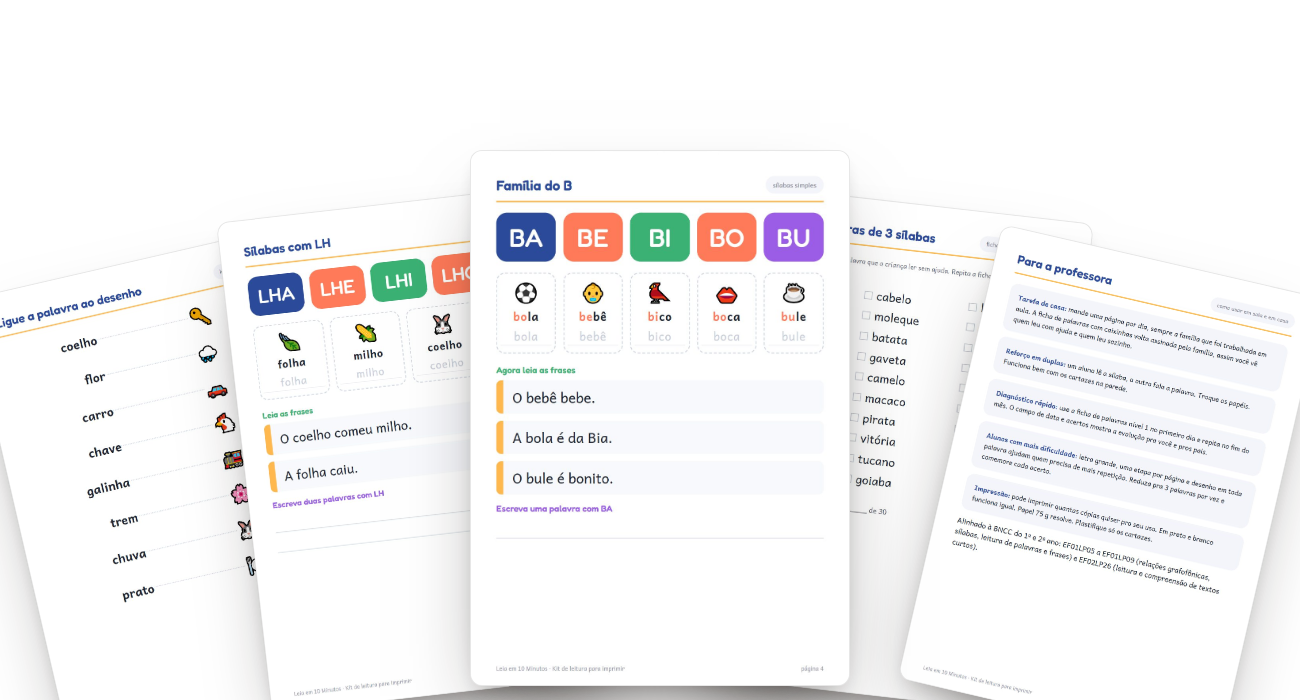
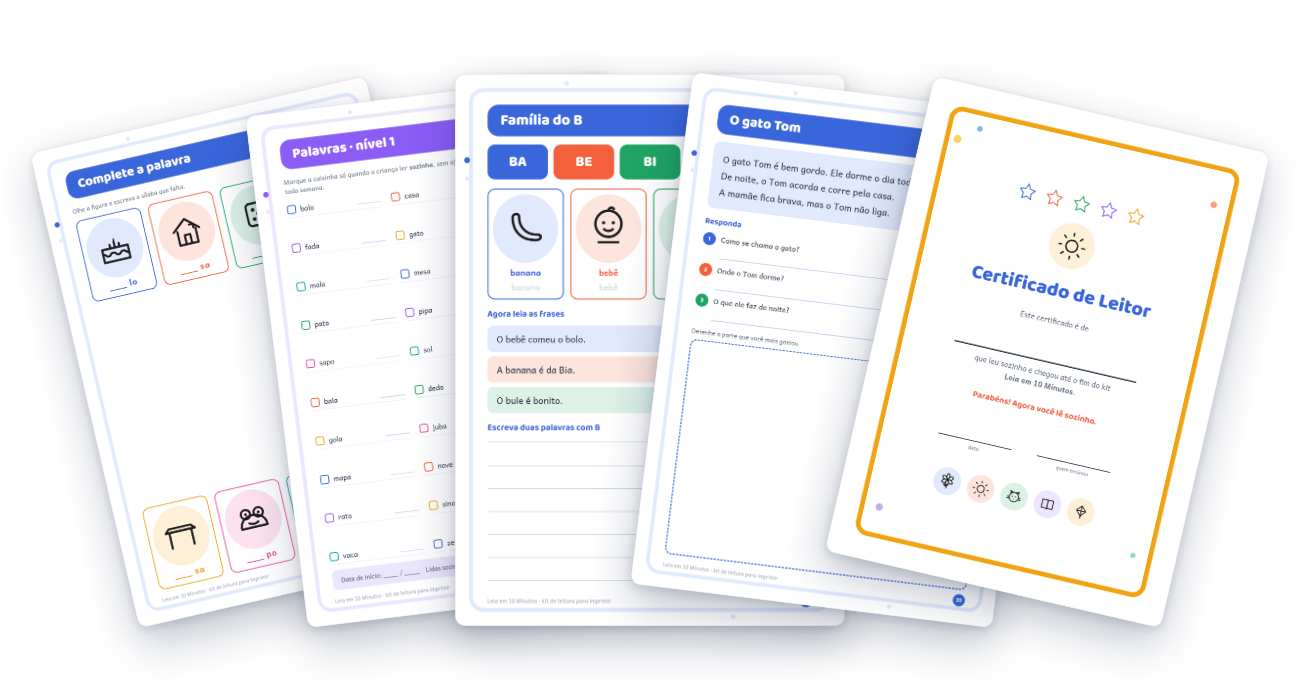
Troca as imagens da landing pelas paginas do produto refeito
O kit foi redesenhado (moldura colorida, faixa de titulo, figuras sobre
bolinha de cor) e as quatro pecas de apoio foram reconstruidas com o mesmo
visual. As imagens do site ainda mostravam as paginas antigas, ou seja,
anunciavam um material que nao existe mais.

- previas da galeria agora saem direto do PDF, via kit/gerar-previas.js
- mockup do topo e cartoes dos complementos montados com paginas reais,
  no lugar dos cartoes de gradiente com emoji
- remove os 16 arquivos de imagem que ninguem mais referencia

diff --git a/index.html b/index.html
@@ -404,14 +404,14 @@ src="https://www.facebook.com/tr?id=1107457028532296&ev=PageView&noscript=1"></n
     <h2 class="r" data-d="1" style="margin-top:14px">Páginas reais, do jeito que saem da impressora</h2>
   </div>
   <div class="gal__track" id="gal">
-    <figure class="gcard r"><img src="img/p3.jpg" alt="Ficha de família silábica" width="953" height="1346" loading="lazy"><span>Família silábica</span></figure>
-    <figure class="gcard r" data-d="1"><img src="img/p7.jpg" alt="Ficha de palavras" width="953" height="1346" loading="lazy"><span>Ficha de palavras</span></figure>
-    <figure class="gcard r" data-d="2"><img src="img/p19.jpg" alt="Sílabas com LH" width="953" height="1346" loading="lazy"><span>Sílabas complexas</span></figure>
-    <figure class="gcard r" data-d="3"><img src="img/p24.jpg" alt="Texto com perguntas" width="953" height="1348" loading="lazy"><span>Texto com perguntas</span></figure>
-    <figure class="gcard r" data-d="4"><img src="img/p32.jpg" alt="Ligue ao desenho" width="953" height="1346" loading="lazy"><span>Brincadeiras</span></figure>
-    <figure class="gcard r" data-d="5"><img src="img/p40.jpg" alt="Plano de 30 dias" width="953" height="1346" loading="lazy"><span>Plano de 30 dias</span></figure>
-    <figure class="gcard r" data-d="5"><img src="img/p46.jpg" alt="Página para a professora" width="953" height="1346" loading="lazy"><span>Para a professora</span></figure>
-    <figure class="gcard r" data-d="5"><img src="img/p47.jpg" alt="Certificado de leitor" width="953" height="1348" loading="lazy"><span>Certificado</span></figure>
+    <figure class="gcard r"><img src="img/previa-familia.png" alt="Ficha de família silábica" width="794" height="1123" loading="lazy"><span>Família silábica</span></figure>
+    <figure class="gcard r" data-d="1"><img src="img/previa-palavras.png" alt="Ficha de palavras" width="794" height="1123" loading="lazy"><span>Ficha de palavras</span></figure>
+    <figure class="gcard r" data-d="2"><img src="img/previa-complexas.png" alt="Sílabas com LH" width="794" height="1123" loading="lazy"><span>Sílabas complexas</span></figure>
+    <figure class="gcard r" data-d="3"><img src="img/previa-texto.png" alt="Texto com perguntas" width="794" height="1123" loading="lazy"><span>Texto com perguntas</span></figure>
+    <figure class="gcard r" data-d="4"><img src="img/previa-brincadeira.png" alt="Ligue ao desenho" width="794" height="1123" loading="lazy"><span>Brincadeiras</span></figure>
+    <figure class="gcard r" data-d="5"><img src="img/previa-plano.png" alt="Plano de 30 dias" width="794" height="1123" loading="lazy"><span>Plano de 30 dias</span></figure>
+    <figure class="gcard r" data-d="5"><img src="img/previa-professora.png" alt="Página para a professora" width="794" height="1123" loading="lazy"><span>Para a professora</span></figure>
+    <figure class="gcard r" data-d="5"><img src="img/previa-certificado.png" alt="Certificado de leitor" width="794" height="1123" loading="lazy"><span>Certificado</span></figure>
   </div>
   <div class="wrap"><div class="hint">← arraste para ver mais →</div></div>
 </section>
